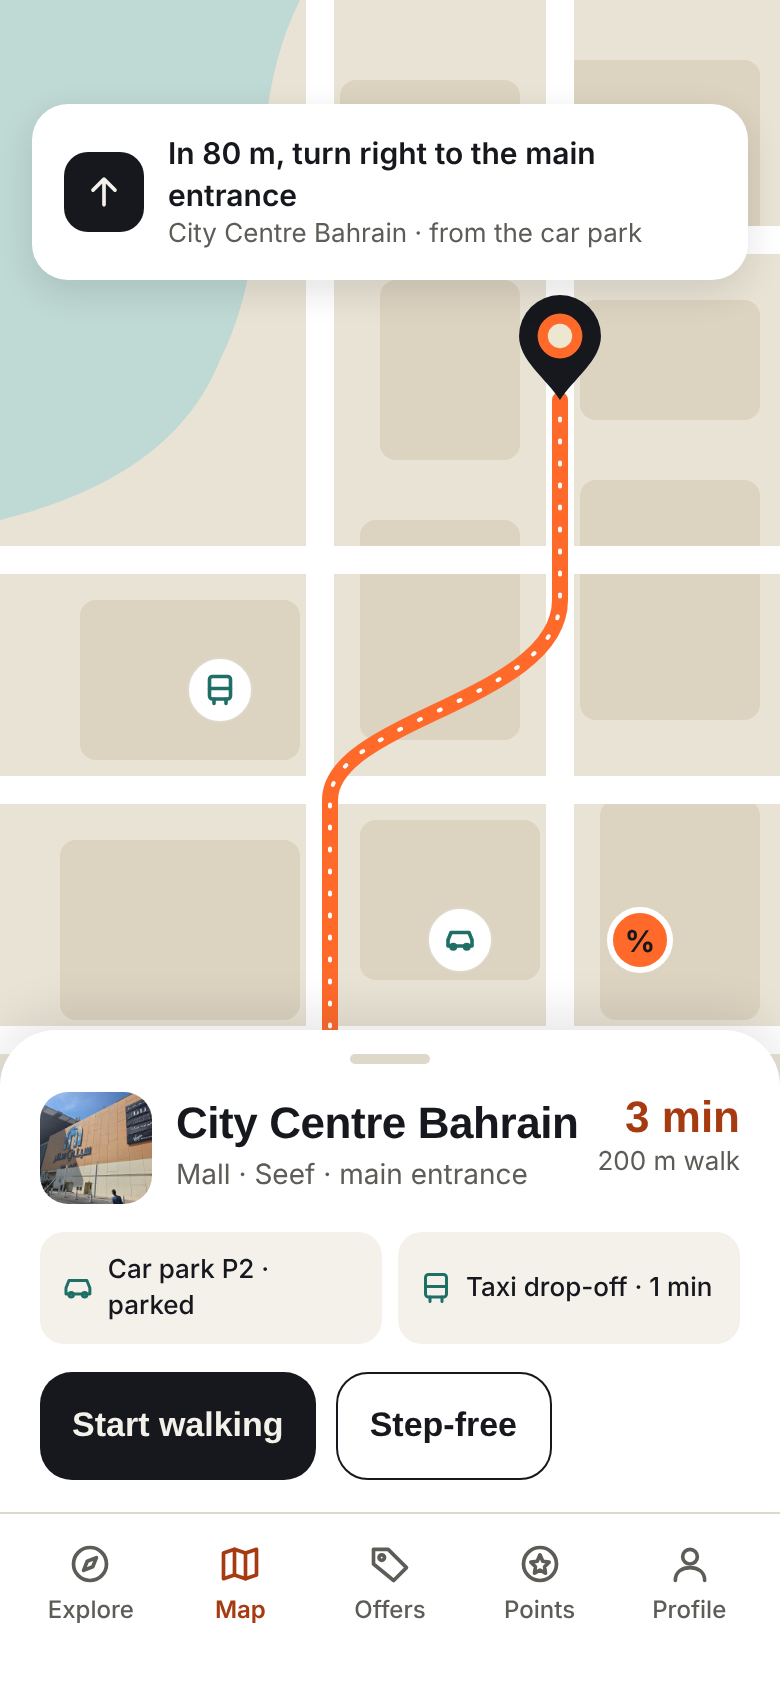
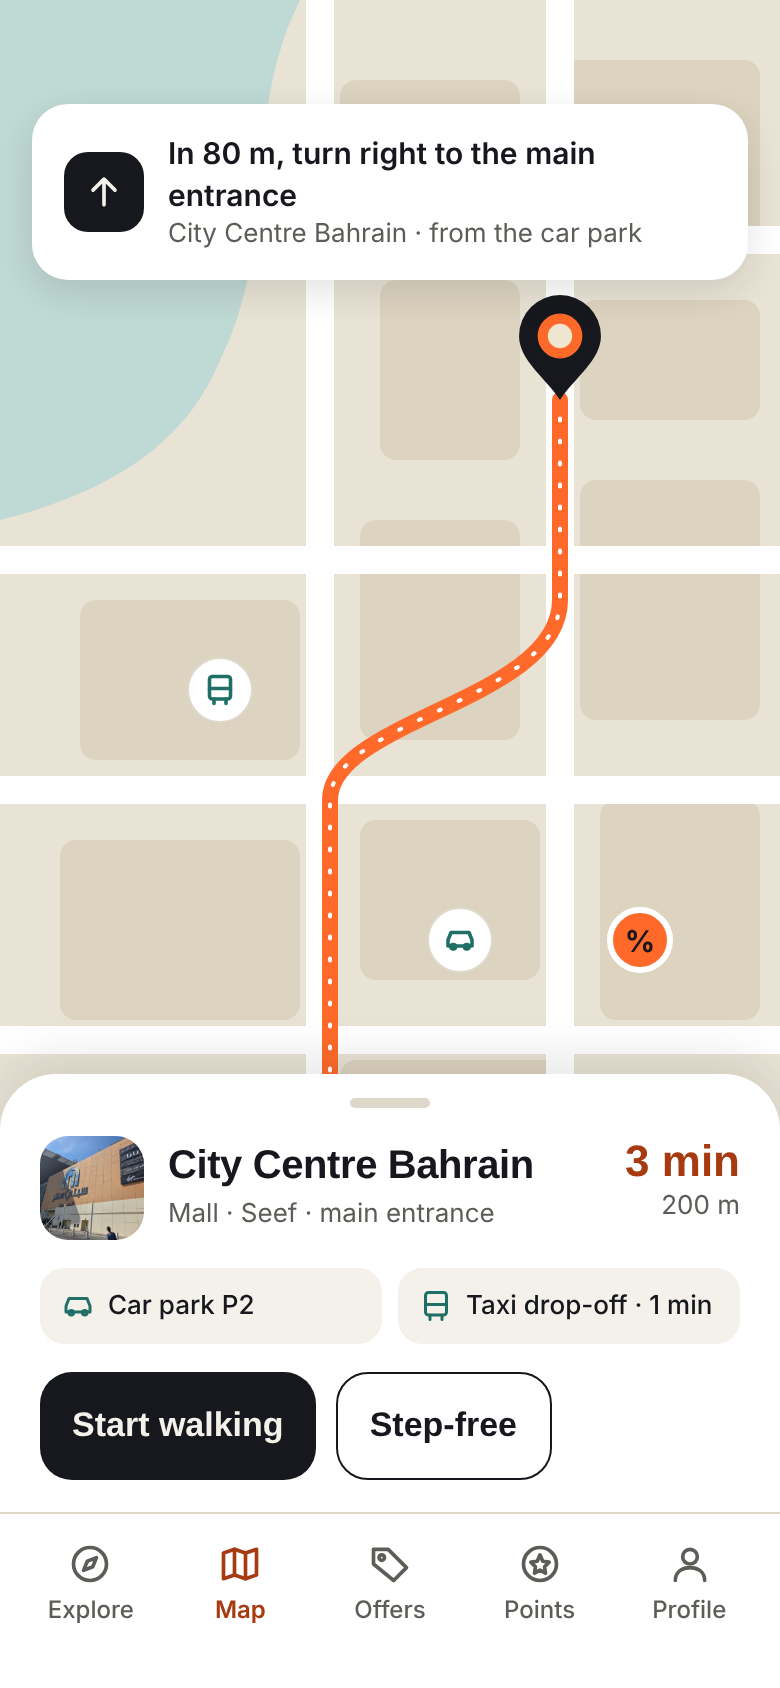
Fix Walk there layout and fit screens on smaller phones

Changed region(s): [[0.0, 0.5853, 0.8, 0.8009], [0.7385, 0.6161, 1.0, 0.8009]]

diff --git a/app/route.html b/app/route.html
@@ -14,13 +14,13 @@
 <div style="position: absolute; left: 0; bottom: 84px; width: 390px; box-sizing: border-box; background: #FFFFFF; border-radius: 28px 28px 0 0; padding: 12px 20px 20px; display: flex; flex-direction: column; gap: 14px; box-shadow: 0 -8px 24px rgba(22,24,29,0.10)">
 <div style="width: 40px; height: 5px; border-radius: 3px; background: #DED8CB; align-self: center"></div>
 <div style="display: flex; justify-content: space-between; align-items: flex-start">
-<div style="display: flex; flex-direction: column; gap: 4px"><div style="display: flex; gap: 12px; align-items: center"><img src="../assets/city-centre-outside.jpg" alt="City Centre Bahrain" style="width: 56px; height: 56px; border-radius: 14px; object-fit: cover"><div style="display: flex; flex-direction: column; gap: 4px"><h1 style="margin: 0; font-family: 'Space Grotesk', sans-serif; font-size: 22px; font-weight: 700; letter-spacing: -0.01em; line-height: 1.1">City Centre Bahrain</h1><p style="margin: 0; font-size: 14px; color: #5E5C57; font-weight: 400; line-height: 1.4">Mall · Seef · main entrance</p></div></div></div>
-<div style="text-align: right"><p style="margin: 0; font-family: 'Space Grotesk', sans-serif; font-size: 22px; font-weight: 700; color: #A63A10">3 min</p><p style="margin: 0; font-size: 13px; color: #5E5C57; font-weight: 400; line-height: 1.4">200 m walk</p></div></div>
+<div style="display: flex; flex-direction: column; gap: 4px"><div style="display: flex; gap: 12px; align-items: center; flex: 1; min-width: 0"><img src="../assets/city-centre-outside.jpg" alt="City Centre Bahrain" style="width: 52px; height: 52px; border-radius: 14px; object-fit: cover; flex: none"><div style="display: flex; flex-direction: column; gap: 4px; min-width: 0"><h1 style="margin: 0; font-family: 'Space Grotesk', sans-serif; font-size: 20px; font-weight: 700; letter-spacing: -0.01em; line-height: 1.1">City Centre Bahrain</h1><p style="margin: 0; font-size: 13px; color: #5E5C57; font-weight: 400; line-height: 1.4">Mall · Seef · main entrance</p></div></div></div>
+<div style="text-align: right; flex: none; padding-left: 10px"><p style="margin: 0; font-family: 'Space Grotesk', sans-serif; font-size: 22px; font-weight: 700; color: #A63A10">3 min</p><p style="margin: 0; font-size: 13px; color: #5E5C57; font-weight: 400; line-height: 1.4">200 m</p></div></div>
 <div style="display: flex; gap: 8px">
-<div style="flex: 1; display: flex; align-items: center; gap: 6px; background: #F4F1EA; border-radius: 12px; padding: 10px"><svg width="18" height="18" viewBox="0 0 24 24" fill="none" stroke="#1F6F66" stroke-width="2" stroke-linecap="round" stroke-linejoin="round" aria-hidden="true"><path d="M4 16 V12 L6 7 H18 L20 12 V16 Z"/><circle cx="7.5" cy="16.5" r="1.5"/><circle cx="16.5" cy="16.5" r="1.5"/></svg><p style="margin: 0; font-size: 13px; color: #16181D; font-weight: 500; line-height: 1.4">Car park P2 · parked</p></div>
+<div style="flex: 1; display: flex; align-items: center; gap: 6px; background: #F4F1EA; border-radius: 12px; padding: 10px"><svg width="18" height="18" viewBox="0 0 24 24" fill="none" stroke="#1F6F66" stroke-width="2" stroke-linecap="round" stroke-linejoin="round" aria-hidden="true"><path d="M4 16 V12 L6 7 H18 L20 12 V16 Z"/><circle cx="7.5" cy="16.5" r="1.5"/><circle cx="16.5" cy="16.5" r="1.5"/></svg><p style="margin: 0; font-size: 13px; color: #16181D; font-weight: 500; line-height: 1.4">Car park P2</p></div>
 <div style="flex: 1; display: flex; align-items: center; gap: 6px; background: #F4F1EA; border-radius: 12px; padding: 10px"><svg width="18" height="18" viewBox="0 0 24 24" fill="none" stroke="#1F6F66" stroke-width="2" stroke-linecap="round" stroke-linejoin="round" aria-hidden="true"><rect x="5" y="3" width="14" height="15" rx="2"/><path d="M5 11 H19 M8 21 V18 M16 21 V18"/></svg><p style="margin: 0; font-size: 13px; color: #16181D; font-weight: 500; line-height: 1.4">Taxi drop-off · 1 min</p></div></div>
 <div style="display: flex; gap: 10px"><button type="button" style=" background: #16181D; color: #F4F1EA; border: none; border-radius: 16px; padding: 16px; font-family: 'Space Grotesk', sans-serif; font-size: 17px; font-weight: 600">Start walking</button><button type="button" style=" background: transparent; color: #16181D; border: 1.5px solid #16181D; border: 1.5px solid #16181D; border-radius: 16px; padding: 16px; font-family: 'Space Grotesk', sans-serif; font-size: 17px; font-weight: 600">Step-free</button></div>
 </div>
 <nav aria-label="Main" style="position: absolute; left: 0; bottom: 0; width: 390px; box-sizing: border-box; background: #FFFFFF; border-top: 1px solid #DED8CB; display: flex; padding: 4px 8px 22px"><a href="explore.html" style="flex: 1; display: flex; flex-direction: column; align-items: center; gap: 4px; padding: 10px 0; text-decoration: none; color: #5E5C57; font-size: 12px; font-weight: 500"><svg width="22" height="22" viewBox="0 0 24 24" fill="none" stroke="#5E5C57" stroke-width="2" stroke-linecap="round" stroke-linejoin="round" aria-hidden="true"><circle cx="12" cy="12" r="9"/><path d="M15.5 8.5 L13.5 13.5 L8.5 15.5 L10.5 10.5 Z"/></svg><span>Explore</span></a><a href="route.html" style="flex: 1; display: flex; flex-direction: column; align-items: center; gap: 4px; padding: 10px 0; text-decoration: none; color: #A63A10; font-size: 12px; font-weight: 600"><svg width="22" height="22" viewBox="0 0 24 24" fill="none" stroke="#A63A10" stroke-width="2" stroke-linecap="round" stroke-linejoin="round" aria-hidden="true"><path d="M3 6 L9 4 L15 6 L21 4 V18 L15 20 L9 18 L3 20 Z"/><path d="M9 4 V18 M15 6 V20"/></svg><span>Map</span></a><a href="offer.html" style="flex: 1; display: flex; flex-direction: column; align-items: center; gap: 4px; padding: 10px 0; text-decoration: none; color: #5E5C57; font-size: 12px; font-weight: 500"><svg width="22" height="22" viewBox="0 0 24 24" fill="none" stroke="#5E5C57" stroke-width="2" stroke-linecap="round" stroke-linejoin="round" aria-hidden="true"><path d="M3 12 V4 H11 L21 14 L14 21 Z"/><circle cx="7.5" cy="8.5" r="1.5"/></svg><span>Offers</span></a><a href="points.html" style="flex: 1; display: flex; flex-direction: column; align-items: center; gap: 4px; padding: 10px 0; text-decoration: none; color: #5E5C57; font-size: 12px; font-weight: 500"><svg width="22" height="22" viewBox="0 0 24 24" fill="none" stroke="#5E5C57" stroke-width="2" stroke-linecap="round" stroke-linejoin="round" aria-hidden="true"><circle cx="12" cy="12" r="9"/><path d="M12 7 L13.5 10.5 L17 11 L14.5 13.5 L15 17 L12 15.3 L9 17 L9.5 13.5 L7 11 L10.5 10.5 Z"/></svg><span>Points</span></a><a href="welcome.html" style="flex: 1; display: flex; flex-direction: column; align-items: center; gap: 4px; padding: 10px 0; text-decoration: none; color: #5E5C57; font-size: 12px; font-weight: 500"><svg width="22" height="22" viewBox="0 0 24 24" fill="none" stroke="#5E5C57" stroke-width="2" stroke-linecap="round" stroke-linejoin="round" aria-hidden="true"><circle cx="12" cy="8" r="4"/><path d="M4 21 C4 16 8 14 12 14 C16 14 20 16 20 21"/></svg><span>Profile</span></a></nav>
 </div>
-</div></main></body></html>
+</div></main><script>function fit(){var w=Math.min(window.innerWidth-16,390),s=w/390,p=document.querySelector(".phone");p.style.transform=s<1?"scale("+s+")":"";p.style.transformOrigin="top center";p.parentElement.style.height=s<1?(864*s+16)+"px":"";}window.addEventListener("resize",fit);fit();</script></body></html>

diff --git a/app/explore.html b/app/explore.html
@@ -36,4 +36,4 @@
 </div></div>
 <nav aria-label="Main" style="position: absolute; left: 0; bottom: 0; width: 390px; box-sizing: border-box; background: #FFFFFF; border-top: 1px solid #DED8CB; display: flex; padding: 4px 8px 22px"><a href="explore.html" style="flex: 1; display: flex; flex-direction: column; align-items: center; gap: 4px; padding: 10px 0; text-decoration: none; color: #A63A10; font-size: 12px; font-weight: 600"><svg width="22" height="22" viewBox="0 0 24 24" fill="none" stroke="#A63A10" stroke-width="2" stroke-linecap="round" stroke-linejoin="round" aria-hidden="true"><circle cx="12" cy="12" r="9"/><path d="M15.5 8.5 L13.5 13.5 L8.5 15.5 L10.5 10.5 Z"/></svg><span>Explore</span></a><a href="route.html" style="flex: 1; display: flex; flex-direction: column; align-items: center; gap: 4px; padding: 10px 0; text-decoration: none; color: #5E5C57; font-size: 12px; font-weight: 500"><svg width="22" height="22" viewBox="0 0 24 24" fill="none" stroke="#5E5C57" stroke-width="2" stroke-linecap="round" stroke-linejoin="round" aria-hidden="true"><path d="M3 6 L9 4 L15 6 L21 4 V18 L15 20 L9 18 L3 20 Z"/><path d="M9 4 V18 M15 6 V20"/></svg><span>Map</span></a><a href="offer.html" style="flex: 1; display: flex; flex-direction: column; align-items: center; gap: 4px; padding: 10px 0; text-decoration: none; color: #5E5C57; font-size: 12px; font-weight: 500"><svg width="22" height="22" viewBox="0 0 24 24" fill="none" stroke="#5E5C57" stroke-width="2" stroke-linecap="round" stroke-linejoin="round" aria-hidden="true"><path d="M3 12 V4 H11 L21 14 L14 21 Z"/><circle cx="7.5" cy="8.5" r="1.5"/></svg><span>Offers</span></a><a href="points.html" style="flex: 1; display: flex; flex-direction: column; align-items: center; gap: 4px; padding: 10px 0; text-decoration: none; color: #5E5C57; font-size: 12px; font-weight: 500"><svg width="22" height="22" viewBox="0 0 24 24" fill="none" stroke="#5E5C57" stroke-width="2" stroke-linecap="round" stroke-linejoin="round" aria-hidden="true"><circle cx="12" cy="12" r="9"/><path d="M12 7 L13.5 10.5 L17 11 L14.5 13.5 L15 17 L12 15.3 L9 17 L9.5 13.5 L7 11 L10.5 10.5 Z"/></svg><span>Points</span></a><a href="welcome.html" style="flex: 1; display: flex; flex-direction: column; align-items: center; gap: 4px; padding: 10px 0; text-decoration: none; color: #5E5C57; font-size: 12px; font-weight: 500"><svg width="22" height="22" viewBox="0 0 24 24" fill="none" stroke="#5E5C57" stroke-width="2" stroke-linecap="round" stroke-linejoin="round" aria-hidden="true"><circle cx="12" cy="8" r="4"/><path d="M4 21 C4 16 8 14 12 14 C16 14 20 16 20 21"/></svg><span>Profile</span></a></nav>
 </div>
-</div></main></body></html>
+</div></main><script>function fit(){var w=Math.min(window.innerWidth-16,390),s=w/390,p=document.querySelector(".phone");p.style.transform=s<1?"scale("+s+")":"";p.style.transformOrigin="top center";p.parentElement.style.height=s<1?(864*s+16)+"px":"";}window.addEventListener("resize",fit);fit();</script></body></html>

diff --git a/app/points.html b/app/points.html
@@ -26,4 +26,4 @@
 </div></div>
 <nav aria-label="Main" style="position: absolute; left: 0; bottom: 0; width: 390px; box-sizing: border-box; background: #FFFFFF; border-top: 1px solid #DED8CB; display: flex; padding: 4px 8px 22px"><a href="explore.html" style="flex: 1; display: flex; flex-direction: column; align-items: center; gap: 4px; padding: 10px 0; text-decoration: none; color: #5E5C57; font-size: 12px; font-weight: 500"><svg width="22" height="22" viewBox="0 0 24 24" fill="none" stroke="#5E5C57" stroke-width="2" stroke-linecap="round" stroke-linejoin="round" aria-hidden="true"><circle cx="12" cy="12" r="9"/><path d="M15.5 8.5 L13.5 13.5 L8.5 15.5 L10.5 10.5 Z"/></svg><span>Explore</span></a><a href="route.html" style="flex: 1; display: flex; flex-direction: column; align-items: center; gap: 4px; padding: 10px 0; text-decoration: none; color: #5E5C57; font-size: 12px; font-weight: 500"><svg width="22" height="22" viewBox="0 0 24 24" fill="none" stroke="#5E5C57" stroke-width="2" stroke-linecap="round" stroke-linejoin="round" aria-hidden="true"><path d="M3 6 L9 4 L15 6 L21 4 V18 L15 20 L9 18 L3 20 Z"/><path d="M9 4 V18 M15 6 V20"/></svg><span>Map</span></a><a href="offer.html" style="flex: 1; display: flex; flex-direction: column; align-items: center; gap: 4px; padding: 10px 0; text-decoration: none; color: #5E5C57; font-size: 12px; font-weight: 500"><svg width="22" height="22" viewBox="0 0 24 24" fill="none" stroke="#5E5C57" stroke-width="2" stroke-linecap="round" stroke-linejoin="round" aria-hidden="true"><path d="M3 12 V4 H11 L21 14 L14 21 Z"/><circle cx="7.5" cy="8.5" r="1.5"/></svg><span>Offers</span></a><a href="points.html" style="flex: 1; display: flex; flex-direction: column; align-items: center; gap: 4px; padding: 10px 0; text-decoration: none; color: #A63A10; font-size: 12px; font-weight: 600"><svg width="22" height="22" viewBox="0 0 24 24" fill="none" stroke="#A63A10" stroke-width="2" stroke-linecap="round" stroke-linejoin="round" aria-hidden="true"><circle cx="12" cy="12" r="9"/><path d="M12 7 L13.5 10.5 L17 11 L14.5 13.5 L15 17 L12 15.3 L9 17 L9.5 13.5 L7 11 L10.5 10.5 Z"/></svg><span>Points</span></a><a href="welcome.html" style="flex: 1; display: flex; flex-direction: column; align-items: center; gap: 4px; padding: 10px 0; text-decoration: none; color: #5E5C57; font-size: 12px; font-weight: 500"><svg width="22" height="22" viewBox="0 0 24 24" fill="none" stroke="#5E5C57" stroke-width="2" stroke-linecap="round" stroke-linejoin="round" aria-hidden="true"><circle cx="12" cy="8" r="4"/><path d="M4 21 C4 16 8 14 12 14 C16 14 20 16 20 21"/></svg><span>Profile</span></a></nav>
 </div>
-</div></main></body></html>
+</div></main><script>function fit(){var w=Math.min(window.innerWidth-16,390),s=w/390,p=document.querySelector(".phone");p.style.transform=s<1?"scale("+s+")":"";p.style.transformOrigin="top center";p.parentElement.style.height=s<1?(864*s+16)+"px":"";}window.addEventListener("resize",fit);fit();</script></body></html>

diff --git a/app/offer.html b/app/offer.html
@@ -24,4 +24,4 @@
 </div>
 <nav aria-label="Main" style="position: absolute; left: 0; bottom: 0; width: 390px; box-sizing: border-box; background: #FFFFFF; border-top: 1px solid #DED8CB; display: flex; padding: 4px 8px 22px"><a href="explore.html" style="flex: 1; display: flex; flex-direction: column; align-items: center; gap: 4px; padding: 10px 0; text-decoration: none; color: #5E5C57; font-size: 12px; font-weight: 500"><svg width="22" height="22" viewBox="0 0 24 24" fill="none" stroke="#5E5C57" stroke-width="2" stroke-linecap="round" stroke-linejoin="round" aria-hidden="true"><circle cx="12" cy="12" r="9"/><path d="M15.5 8.5 L13.5 13.5 L8.5 15.5 L10.5 10.5 Z"/></svg><span>Explore</span></a><a href="route.html" style="flex: 1; display: flex; flex-direction: column; align-items: center; gap: 4px; padding: 10px 0; text-decoration: none; color: #5E5C57; font-size: 12px; font-weight: 500"><svg width="22" height="22" viewBox="0 0 24 24" fill="none" stroke="#5E5C57" stroke-width="2" stroke-linecap="round" stroke-linejoin="round" aria-hidden="true"><path d="M3 6 L9 4 L15 6 L21 4 V18 L15 20 L9 18 L3 20 Z"/><path d="M9 4 V18 M15 6 V20"/></svg><span>Map</span></a><a href="offer.html" style="flex: 1; display: flex; flex-direction: column; align-items: center; gap: 4px; padding: 10px 0; text-decoration: none; color: #A63A10; font-size: 12px; font-weight: 600"><svg width="22" height="22" viewBox="0 0 24 24" fill="none" stroke="#A63A10" stroke-width="2" stroke-linecap="round" stroke-linejoin="round" aria-hidden="true"><path d="M3 12 V4 H11 L21 14 L14 21 Z"/><circle cx="7.5" cy="8.5" r="1.5"/></svg><span>Offers</span></a><a href="points.html" style="flex: 1; display: flex; flex-direction: column; align-items: center; gap: 4px; padding: 10px 0; text-decoration: none; color: #5E5C57; font-size: 12px; font-weight: 500"><svg width="22" height="22" viewBox="0 0 24 24" fill="none" stroke="#5E5C57" stroke-width="2" stroke-linecap="round" stroke-linejoin="round" aria-hidden="true"><circle cx="12" cy="12" r="9"/><path d="M12 7 L13.5 10.5 L17 11 L14.5 13.5 L15 17 L12 15.3 L9 17 L9.5 13.5 L7 11 L10.5 10.5 Z"/></svg><span>Points</span></a><a href="welcome.html" style="flex: 1; display: flex; flex-direction: column; align-items: center; gap: 4px; padding: 10px 0; text-decoration: none; color: #5E5C57; font-size: 12px; font-weight: 500"><svg width="22" height="22" viewBox="0 0 24 24" fill="none" stroke="#5E5C57" stroke-width="2" stroke-linecap="round" stroke-linejoin="round" aria-hidden="true"><circle cx="12" cy="8" r="4"/><path d="M4 21 C4 16 8 14 12 14 C16 14 20 16 20 21"/></svg><span>Profile</span></a></nav>
 </div>
-</div></main></body></html>
+</div></main><script>function fit(){var w=Math.min(window.innerWidth-16,390),s=w/390,p=document.querySelector(".phone");p.style.transform=s<1?"scale("+s+")":"";p.style.transformOrigin="top center";p.parentElement.style.height=s<1?(864*s+16)+"px":"";}window.addEventListener("resize",fit);fit();</script></body></html>

diff --git a/app/indoor.html b/app/indoor.html
@@ -40,4 +40,4 @@
 <div style="display: flex; gap: 10px"><button type="button" style=" background: transparent; color: #16181D; border: 1.5px solid #16181D; border: 1.5px solid #16181D; border-radius: 16px; padding: 16px; font-family: 'Space Grotesk', sans-serif; font-size: 17px; font-weight: 600">Map view</button><a href="offer.html" style="flex: 1; background: #16181D; color: #F4F1EA; text-decoration: none; border-radius: 16px; padding: 16px; font-family: 'Space Grotesk', sans-serif; font-size: 17px; font-weight: 600; text-align: center">I'm nearly there</a></div>
 </div>
 </div>
-</div></main></body></html>
+</div></main><script>function fit(){var w=Math.min(window.innerWidth-16,390),s=w/390,p=document.querySelector(".phone");p.style.transform=s<1?"scale("+s+")":"";p.style.transformOrigin="top center";p.parentElement.style.height=s<1?(864*s+16)+"px":"";}window.addEventListener("resize",fit);fit();</script></body></html>

diff --git a/assets/site.css b/assets/site.css
@@ -3,5 +3,5 @@ body{margin:0;background:#E9E4D8;font-family:Inter,sans-serif;color:#16181D}
 .bar a{color:#D8D3C7;text-decoration:none;font-size:14px}.bar a.on{color:#FF8A57;font-weight:700}.bar .home{color:#F4F1EA;font-family:'Space Grotesk',sans-serif;font-weight:700;font-size:18px}
 .bar nav{display:flex;flex-wrap:wrap;gap:8px 16px}
 .stage{display:flex;justify-content:center;padding:32px 16px}
-.phone{width:390px;height:844px;border-radius:44px;overflow:hidden;border:10px solid #16181D;box-shadow:0 20px 50px rgba(22,24,29,.25);position:relative}
-@media (max-width:440px){.stage{padding:0}.phone{border:none;border-radius:0}}
+.phone{flex:none;width:390px;height:844px;border-radius:44px;overflow:hidden;border:10px solid #16181D;box-shadow:0 20px 50px rgba(22,24,29,.25);position:relative}
+@media (max-width:440px){.stage{padding:8px;overflow:hidden}}

diff --git a/app/interests.html b/app/interests.html
@@ -23,4 +23,4 @@
 <a href="explore.html" style="width: 100%; box-sizing: border-box; background: #16181D; color: #F4F1EA; text-decoration: none; border-radius: 16px; padding: 16px; font-family: 'Space Grotesk', sans-serif; font-size: 17px; font-weight: 600; text-align: center; display: block">Start exploring</a>
 </div>
 </div>
-</div></main></body></html>
+</div></main><script>function fit(){var w=Math.min(window.innerWidth-16,390),s=w/390,p=document.querySelector(".phone");p.style.transform=s<1?"scale("+s+")":"";p.style.transformOrigin="top center";p.parentElement.style.height=s<1?(864*s+16)+"px":"";}window.addEventListener("resize",fit);fit();</script></body></html>

diff --git a/app/welcome.html b/app/welcome.html
@@ -23,4 +23,4 @@
 <a href="interests.html" style="width: 100%; box-sizing: border-box; background: #16181D; color: #F4F1EA; text-decoration: none; border-radius: 16px; padding: 16px; font-family: 'Space Grotesk', sans-serif; font-size: 17px; font-weight: 600; text-align: center; display: block">Continue</a>
 </div>
 </div>
-</div></main></body></html>
+</div></main><script>function fit(){var w=Math.min(window.innerWidth-16,390),s=w/390,p=document.querySelector(".phone");p.style.transform=s<1?"scale("+s+")":"";p.style.transformOrigin="top center";p.parentElement.style.height=s<1?(864*s+16)+"px":"";}window.addEventListener("resize",fit);fit();</script></body></html>
